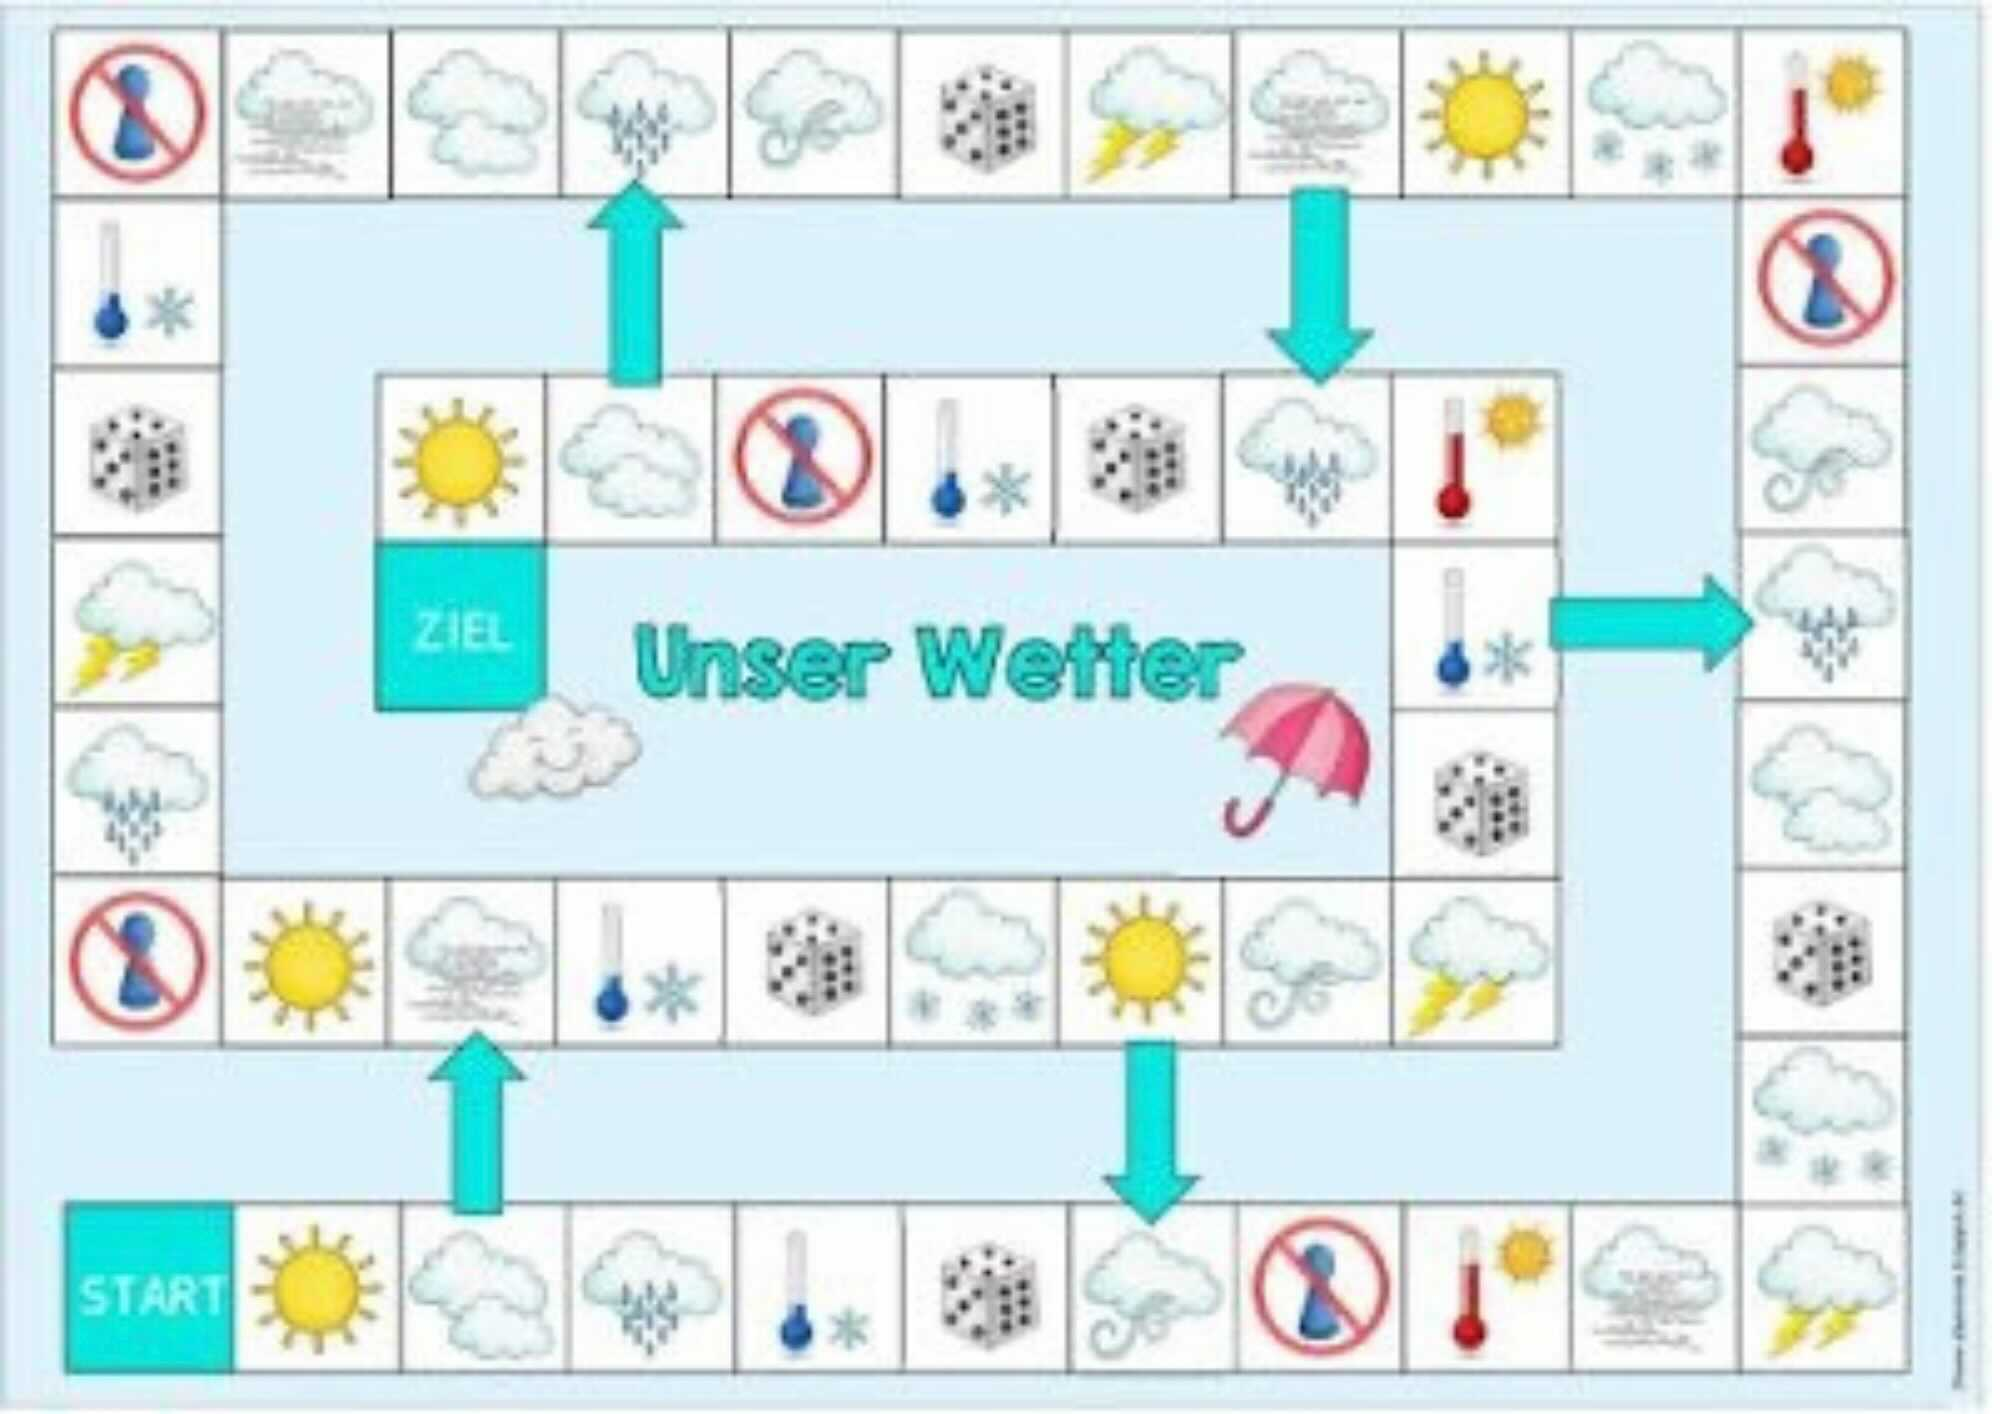
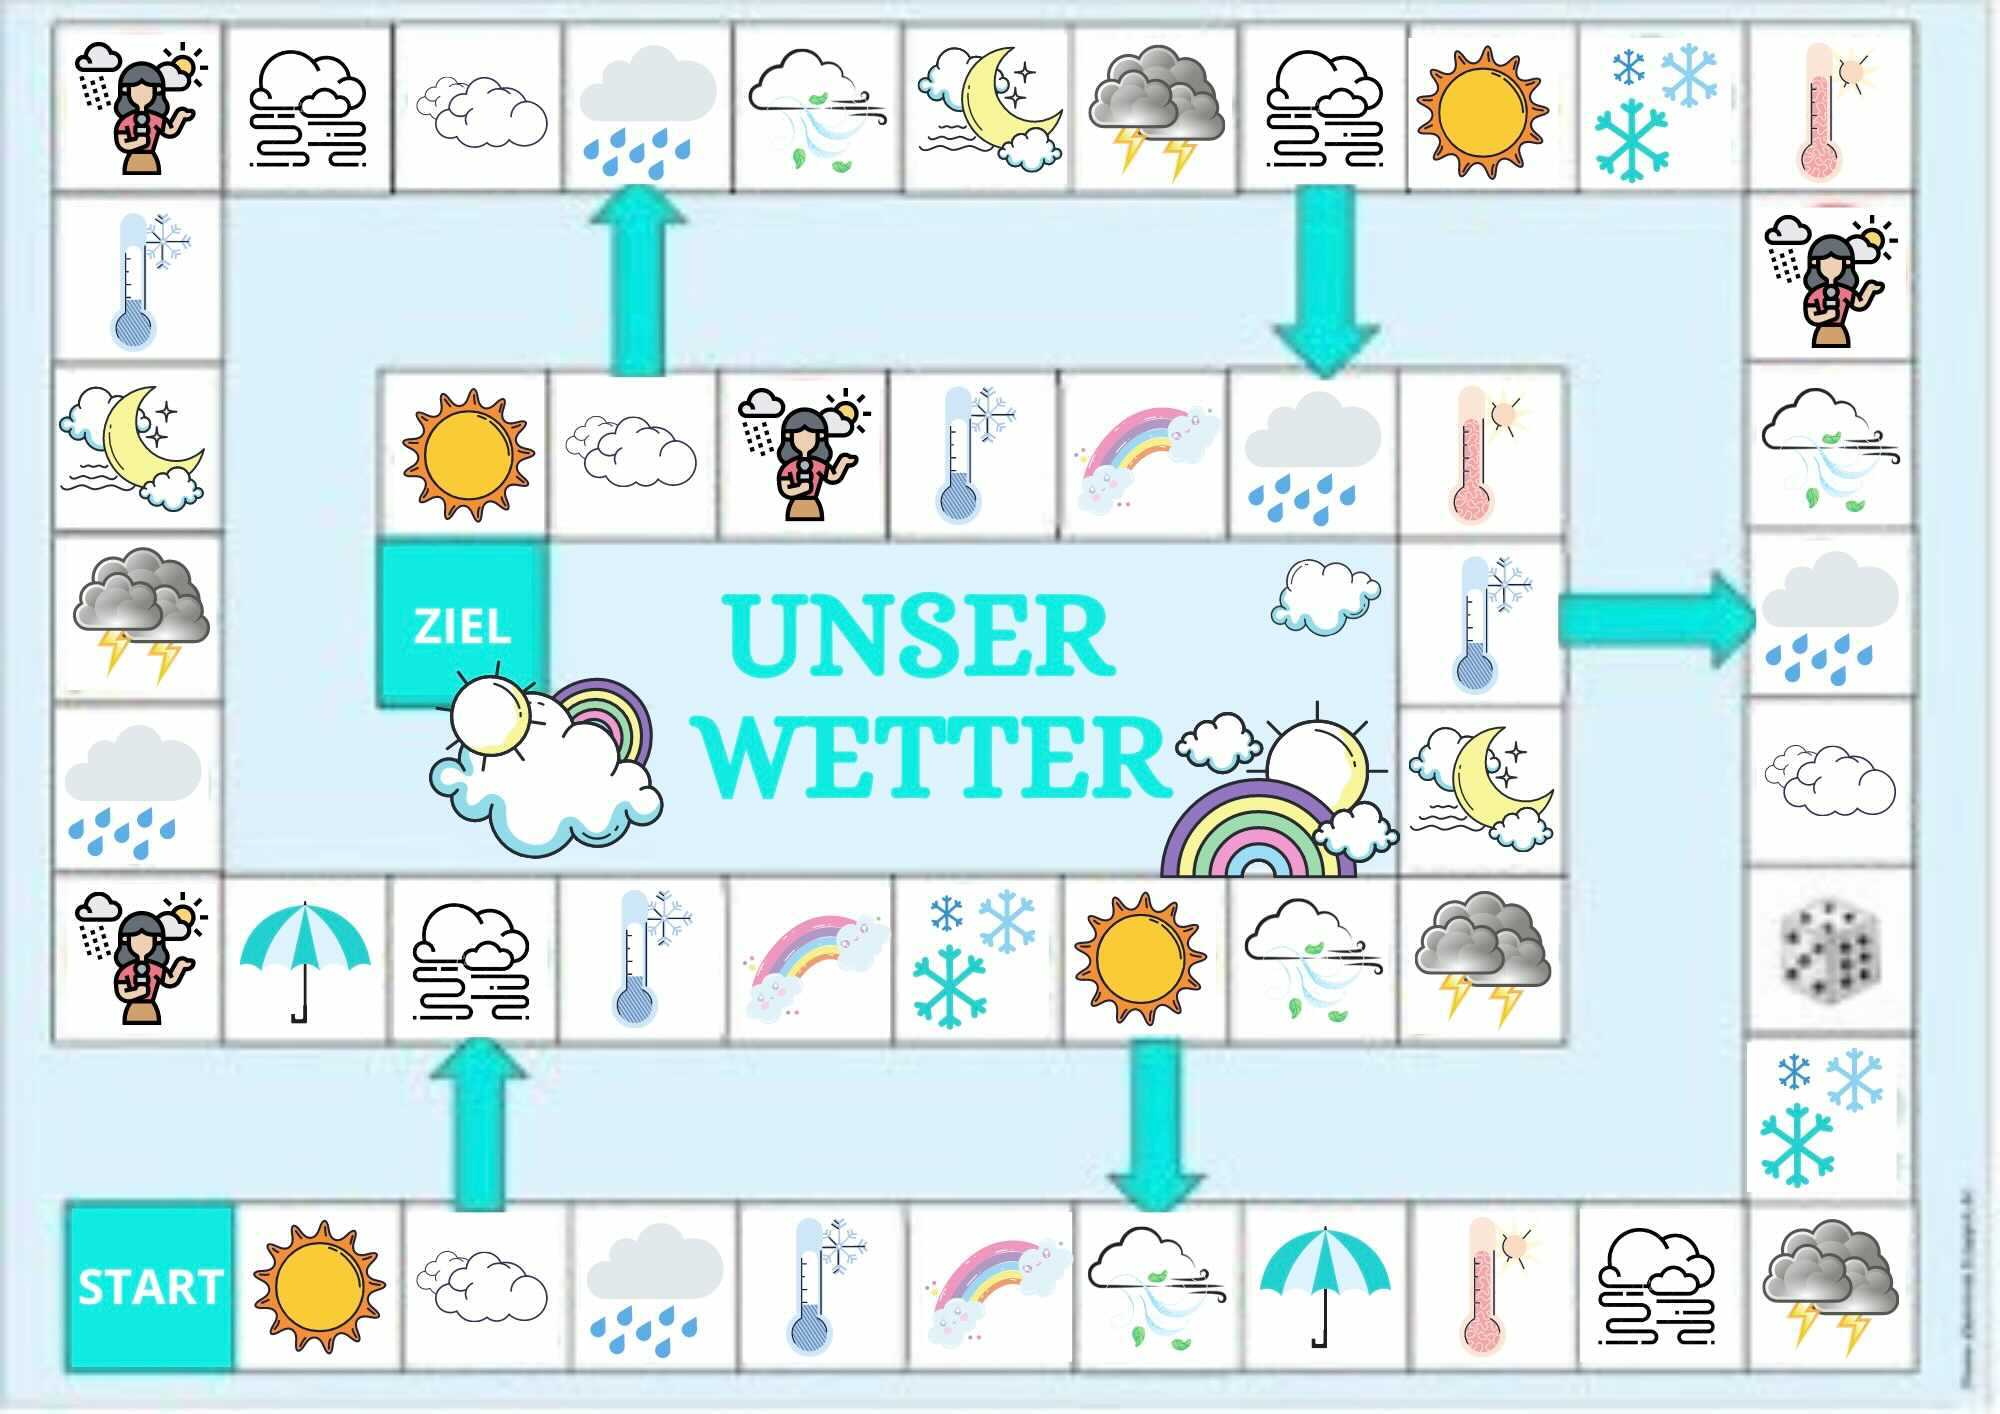
wetter

diff --git a/Vue CLI/wordGame/src/components/FlipGame.vue b/Vue CLI/wordGame/src/components/FlipGame.vue
@@ -1,0 +1,119 @@
+<template lang="pug">
+  .field
+    .row(v-for="row in flipper")
+      .square(v-for="icon in row")
+        img(:src="icon.src" @click="flip")
+        .text.hide(@click="flap" v-html="icon.text")
+    
+</template>
+
+<script>
+export default {
+  name: "FlipGame",
+  data: () => ({
+    flipper: [
+      [
+        {
+          src: require("@/assets/bericht.jpg"),
+          text: "<p></p><p>Der Wetterbericht</p>",
+        },
+        {
+          src: require("@/assets/sonne.jpg"),
+          text: "<p></p><p>Es ist sonnig.</p><p>Die Sonne scheint.</p>",
+        },
+        {
+          src: require("@/assets/wolken.jpg"),
+          text: "<p></p><p>Es ist bewölkt.<p/>",
+        },
+        {
+          src: require("@/assets/gewitter.jpg"),
+          text: "<p></p><p>Das Gewitter:</p><p>Es blitzt</p><p> und donnert.</p>",
+        },
+        {
+          src: require("@/assets/nebel.jpg"),
+          text: "<p></p><p>Es ist neblig.</p>",
+        },
+      ],
+      [
+        {
+          src: require("@/assets/wind.jpg"),
+          text: "<p></p><p>Es ist windig.</p>",
+        },
+        {
+          src: require("@/assets/regen.jpg"),
+          text: "<p></p><p>Es regnet.</p>",
+        },
+        {
+          src: require("@/assets/rschirm.jpg"),
+          text: "<p></p><p>Der Regenschirm</p>",
+        },
+        {
+          src: require("@/assets/rbogen.jpg"),
+          text: "<p></p><p>Der Regenbogen</p>",
+        },
+        {
+          src: require("@/assets/schnee.jpg"),
+          text: "<p></p><p>Es schneit.</p>",
+        },
+      ],
+      [
+        {
+          src: require("@/assets/mond.jpg"),
+          text: "<p></p><p>Der Mond scheint.</p>",
+        },
+        {
+          src: require("@/assets/warm.jpg"),
+          text: "<p></p><p>Es ist warm.</p>",
+        },
+        {
+          src: require("@/assets/kalt.jpg"),
+          text: "<p></p><p>Es ist kalt.</p>",
+        },
+      ],
+    ],
+  }),
+  methods: {
+    flip() {
+      console.log("flip", event.target);
+      event.target.classList.add("hide");
+      event.target.nextSibling.classList.add("show");
+    },
+    flap() {
+      console.log("flap", event.target);
+      event.target.classList.remove("show");
+      event.target.previousElementSibling.classList.remove("hide");
+    },
+  },
+};
+</script>
+
+<style scoped>
+.field {
+  flex-direction: column;
+}
+
+.field,
+.row {
+  display: flex;
+  margin-bottom: 0.5rem;
+}
+
+img {
+  padding: 0 15px;
+}
+
+img,
+.text,
+.square {
+  width: 198px;
+  height: 168px;
+  margin: 0.5rem 0;
+}
+
+.hide {
+  display: none;
+}
+.show {
+  display: block;
+}
+</style>

diff --git a/Vue CLI/wordGame/src/components/GameHeader.vue b/Vue CLI/wordGame/src/components/GameHeader.vue
@@ -6,7 +6,7 @@
         v-on:dragstart="(event) => dragStart(event)"
         v-on:dragend="dragEnd")
     .steps
-      button.btn.btn-primary(@click="getNumber") ?
+      button.btn.btn-purple(@click="getNumber") ?
       .arrow ->
       button.btn.btn-primary {{ number }}
 </template>
@@ -21,6 +21,7 @@ export default {
   methods: {
     getNumber() {
       this.number = Math.floor(Math.random() * 6 + 1);
+      event.target.classList.toggle("btn-blue");
     },
     // drag&drop: character
     dragStart(event) {
@@ -51,17 +52,19 @@ export default {
   display: flex;
   margin: 1rem;
 }
-.blue {
-  background-color: #2196f3;
+.blue,
+.purple {
   width: 50px;
   height: 50px;
   border-radius: 50%;
 }
+.btn-purple,
 .purple {
   background-color: #ae56ff;
-  width: 50px;
-  height: 50px;
-  border-radius: 50%;
+}
+.btn-blue,
+.blue {
+  background-color: #2196f3;
 }
 
 .hold {

diff --git a/Vue CLI/wordGame/src/components/GameField.vue b/Vue CLI/wordGame/src/components/GameField.vue
@@ -1,8 +1,9 @@
 <template lang="pug">
   .container
+    FlipGame
     GameHeader
     .container
-      img.field(src="@/assets/haus.jpg")
+      img.field(src="@/assets/wetter.jpg")
       .squares
         .row(v-for="row in rows" :key="row")
           .square(v-for="square in squares" :key="square")
@@ -14,11 +15,13 @@
 </template>
 
 <script>
+import FlipGame from "@/components/FlipGame.vue";
 import GameHeader from "@/components/GameHeader.vue";
 
 export default {
   name: "Chatbox",
   components: {
+    FlipGame,
     GameHeader,
   },
   data: () => ({
